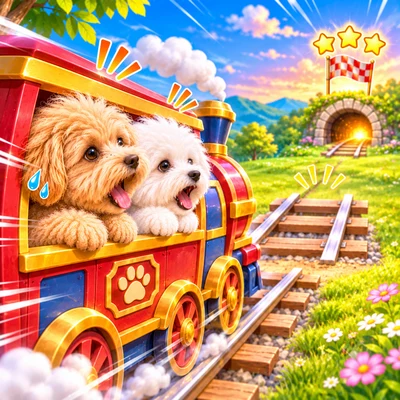
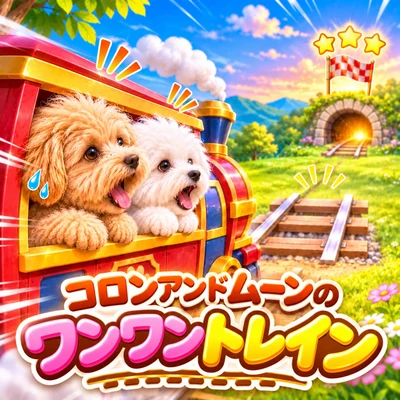
Replace wanwan thumbnail with title version
Claude-Session: https://claude.ai/code/session_01C8PtLDws9mEun2KRsPMwCE

diff --git a/sw.js b/sw.js
@@ -1,5 +1,5 @@
 // オフライン対応（ページは最新を優先、画像などはキャッシュを優先）
-const V='gc-v144';
+const V='gc-v145';
 const CORE=['./','index.html','coins.js','backup.js','manifest.webmanifest','icons/icon-192.png',
  ...['reversi','shogi','wanko','gomoku','memory','escape','rings','peg','slide','hanoi'].map(g=>g+'/')];
 self.addEventListener('install',e=>{e.waitUntil(caches.open(V).then(c=>c.addAll(CORE)).then(()=>self.skipWaiting()))});
